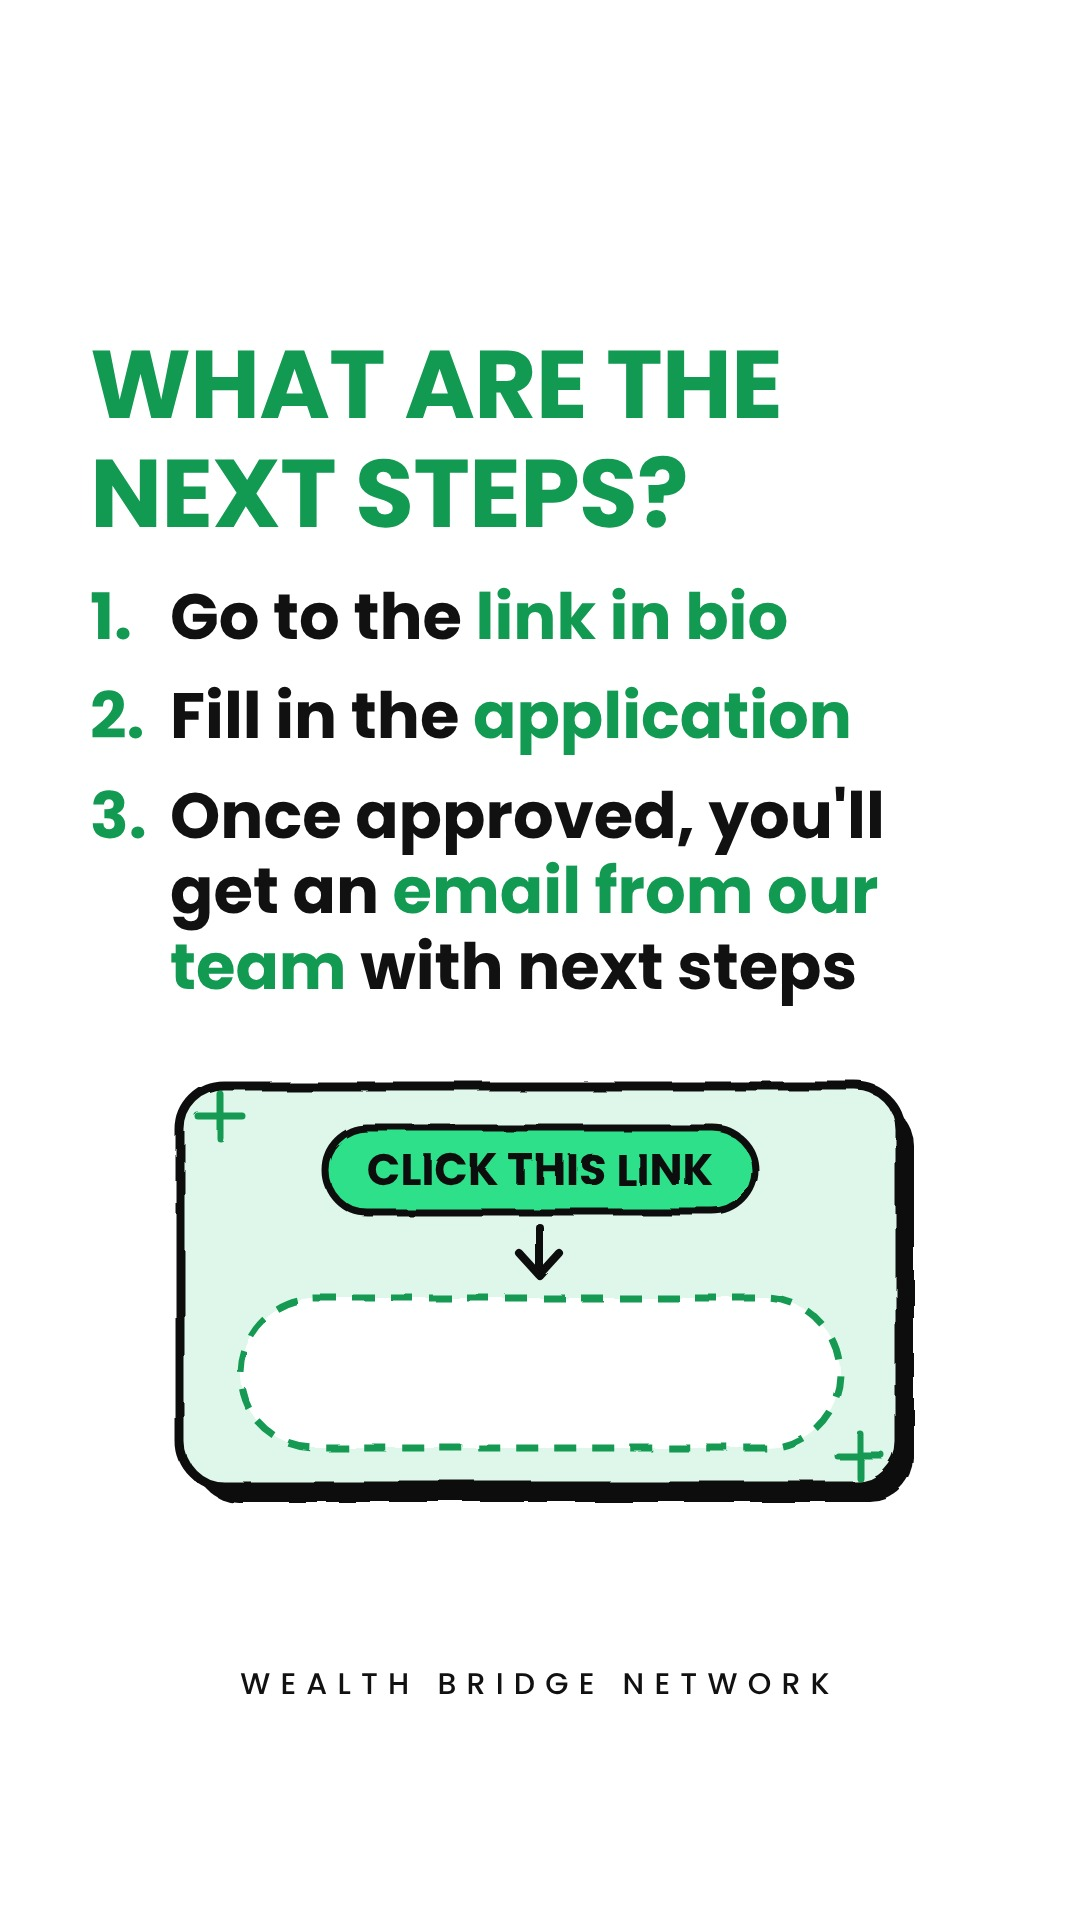
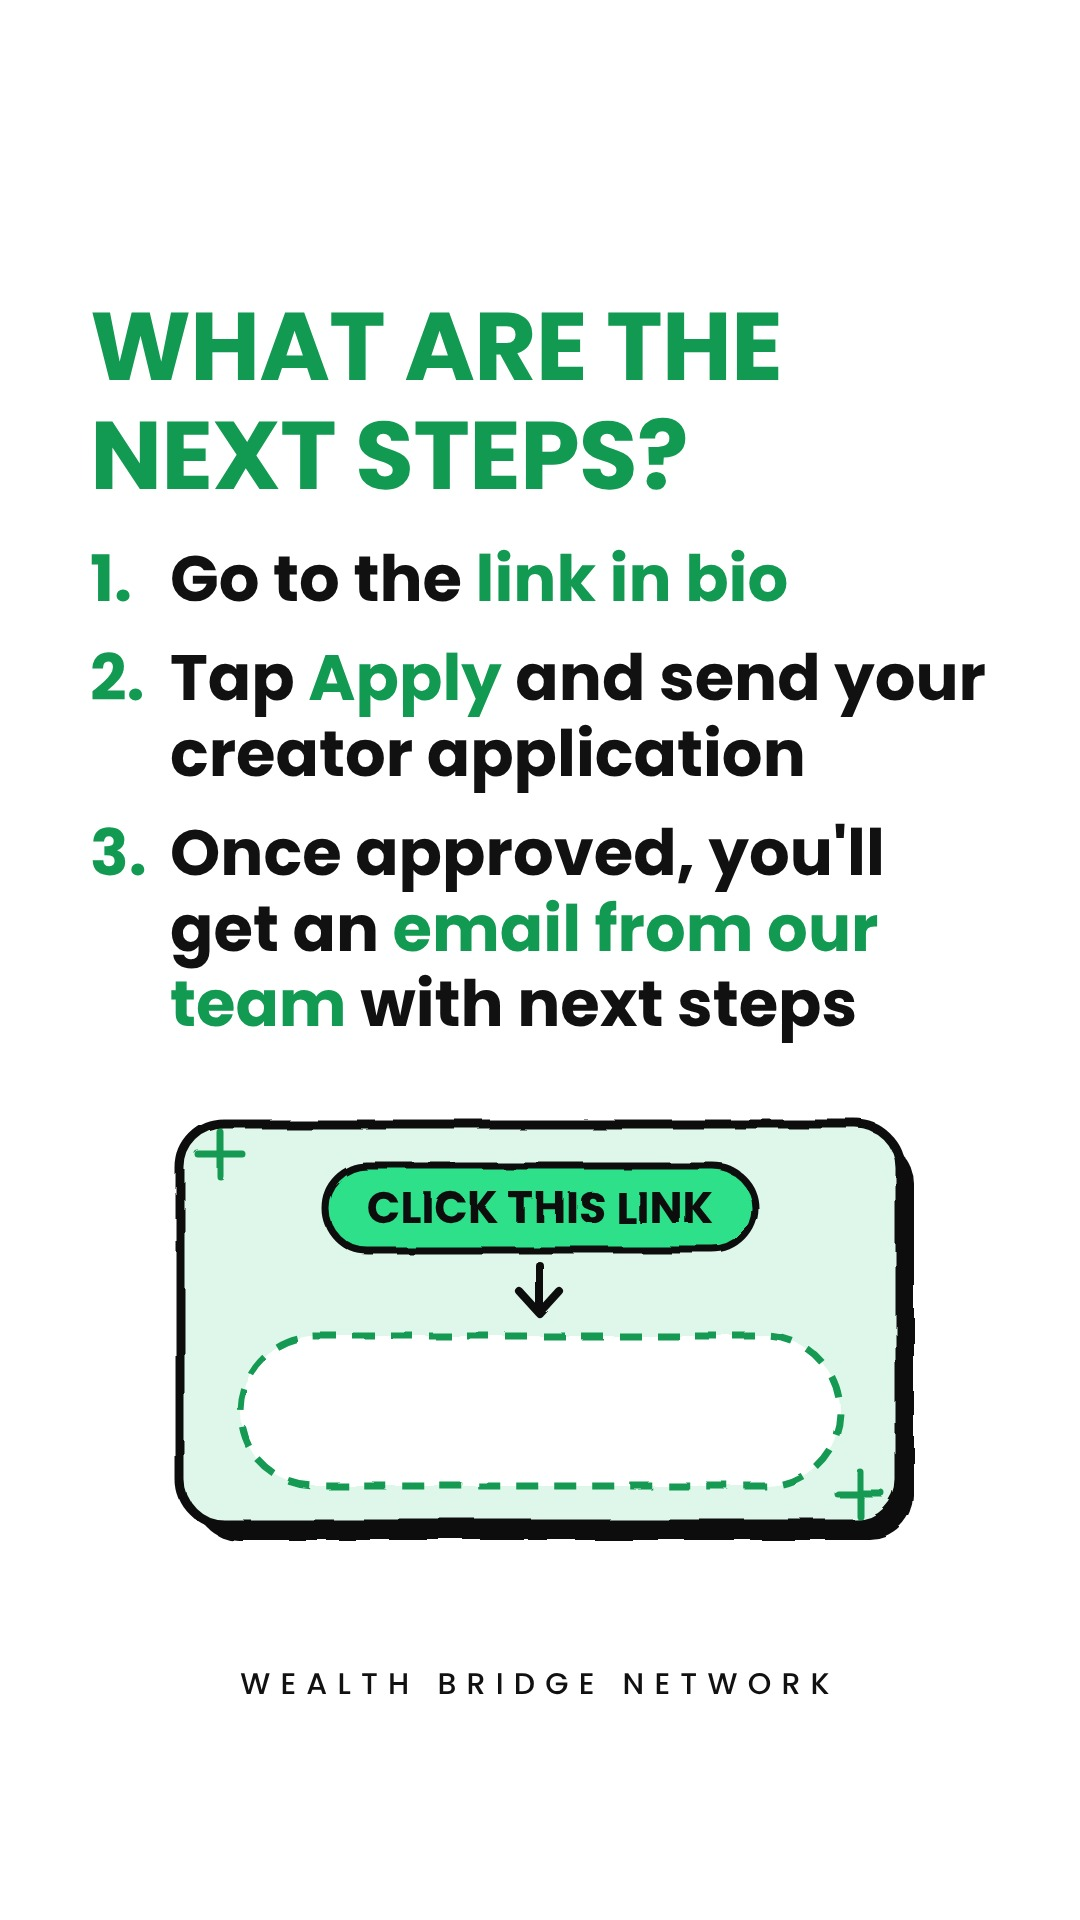
Highlights: creators next steps say Apply; network is sign up / become a member (no application)
Claude-Session: https://claude.ai/code/session_01XWHiAuJ5usg3NqhhkBZ2QK

Changed region(s): [[0.0917, 0.1562, 0.9167, 0.8125], [0.825, 0.6875, 0.8556, 0.7188]]

diff --git a/content/highlights.py b/content/highlights.py
@@ -57,7 +57,7 @@ dict(id="hl-creators", title="Creators", slides=[
       scene=ground(60, 840, 380) + phone(140, 380, 0.7, "APPLY") + check(140, 120, 0.6, True) + arrow(230, 230, 320, 230, -50)
       + board(420, 380, 0.6, "SIGN") + arrow(520, 230, 600, 230, -50) + handshake_hands(720, 300, 0.75), vh=400),
  dict(head="What are the\n*next steps?*", hd=96,
-      items=["Go to the *link in bio*", "Fill in the *application*", "Once approved, you'll get an *email from our team* with next steps"], **{"is": 64},
+      items=["Go to the *link in bio*", "Tap *Apply* and send your creator application", "Once approved, you'll get an *email from our team* with next steps"], **{"is": 64},
       scene=link_card(450, 20), vh=440),
 ]),
 # ================================================================ 2 · AFFILIATE
@@ -86,11 +86,11 @@ dict(id="hl-network", title="Join us", slides=[
       items=["*Brand deals*", "*Jobs* in China", "*Scholarships*", "*Manufacturing* & sourcing", "*Free mentorship*"], **{"is": 76},
       scene=ground(60, 840, 360) + phone(150, 360, 0.6, "DEAL") + board(330, 360, 0.55, "JOB") + cap(520, 330, 0.7) + factory(700, 360, 0.5), vh=380),
  dict(head="How it *works:*", hd=96,
-      items=["You *apply*", "You get *approved*", "You become a *member*", "We connect you with *opportunities* that fit your goals"], **{"is": 70},
-      scene=ground(60, 840, 380) + phone(140, 380, 0.7, "APPLY") + check(140, 120, 0.6, True) + arrow(230, 230, 320, 230, -50)
+      items=["You *sign up*", "You become a *member*", "You get access to *deals, jobs, scholarships* and more", "We connect you with *opportunities* that fit your goals"], **{"is": 66},
+      scene=ground(60, 840, 380) + phone(140, 380, 0.7, "JOIN") + check(140, 120, 0.6, True) + arrow(230, 230, 320, 230, -50)
       + figure(430, 380, 0.75, "up", "grin") + arrow(520, 230, 600, 230, -50) + bridge(740, 380, 0.45, 260), vh=400),
  dict(head="What are the\n*next steps?*", hd=96,
-      items=["Go to the *link in bio*", "Fill in the *application*", "Once approved, you'll get an *email from our team* with next steps"], **{"is": 64},
+      items=["Go to the *link in bio*", "Sign up and *become a member*", "You'll get a *welcome email from our team* with next steps"], **{"is": 64},
       scene=link_card(450, 20), vh=440),
 ]),
 ]
